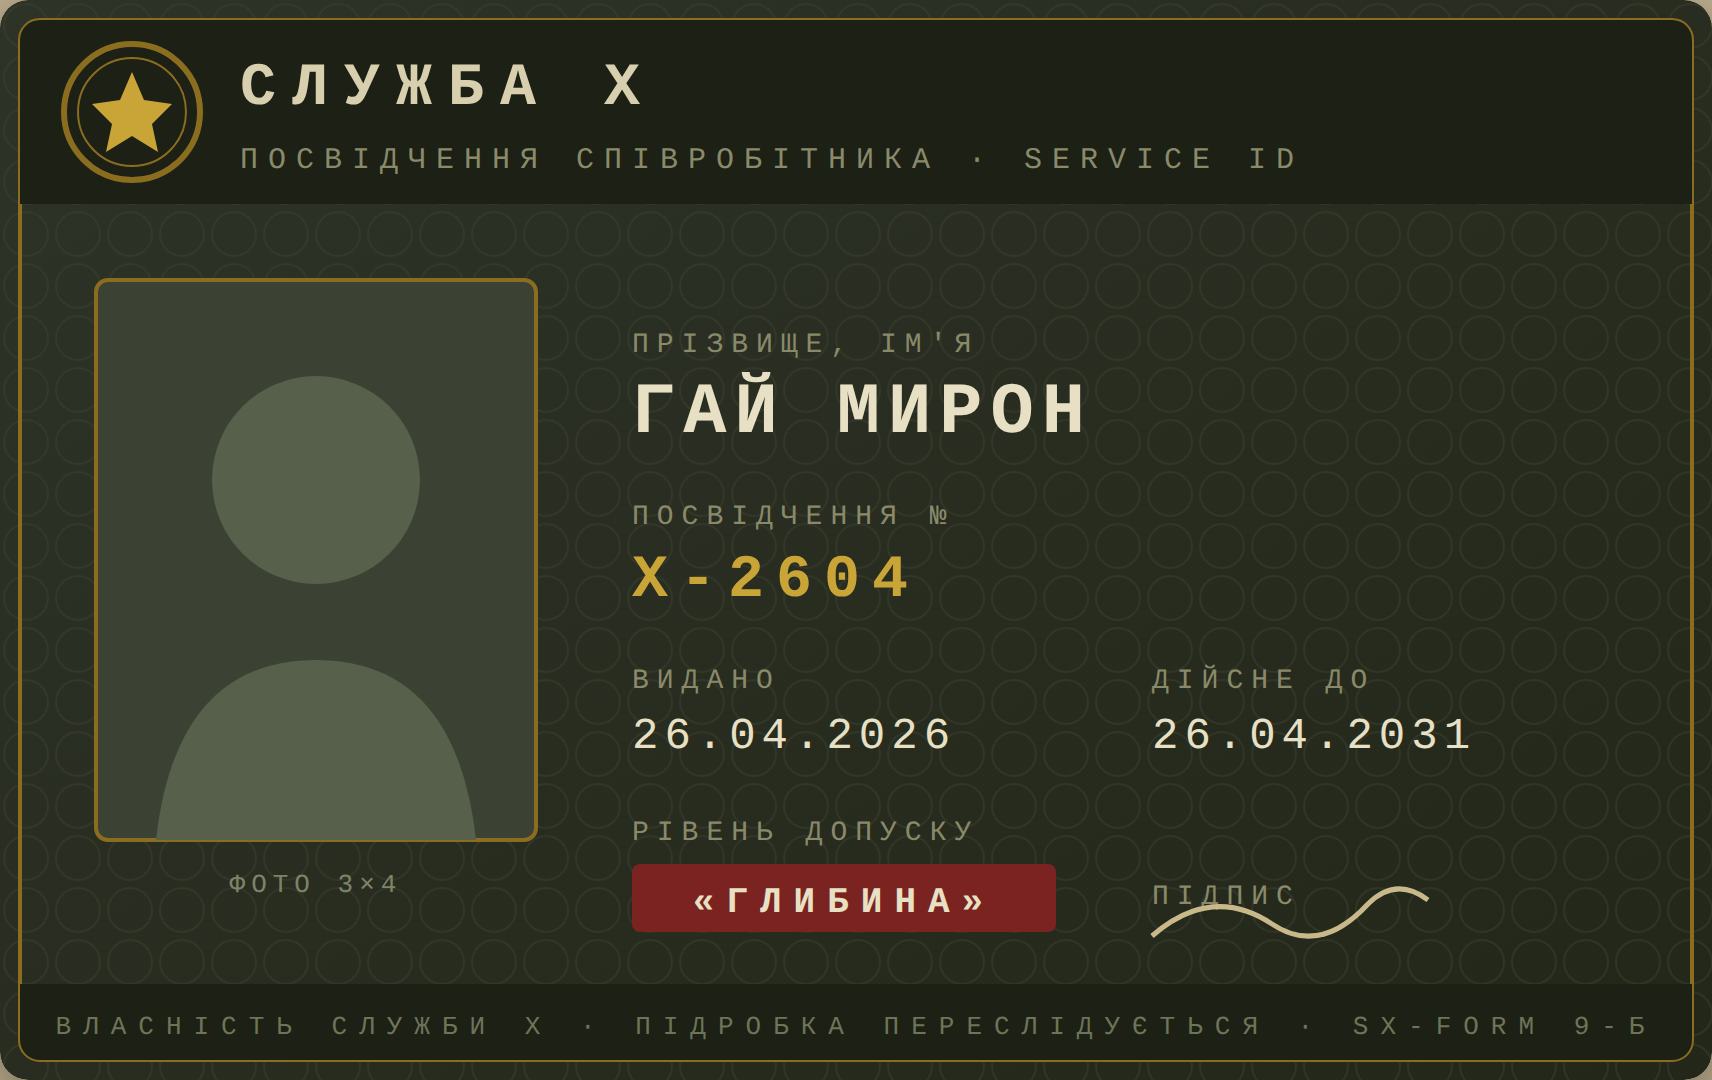
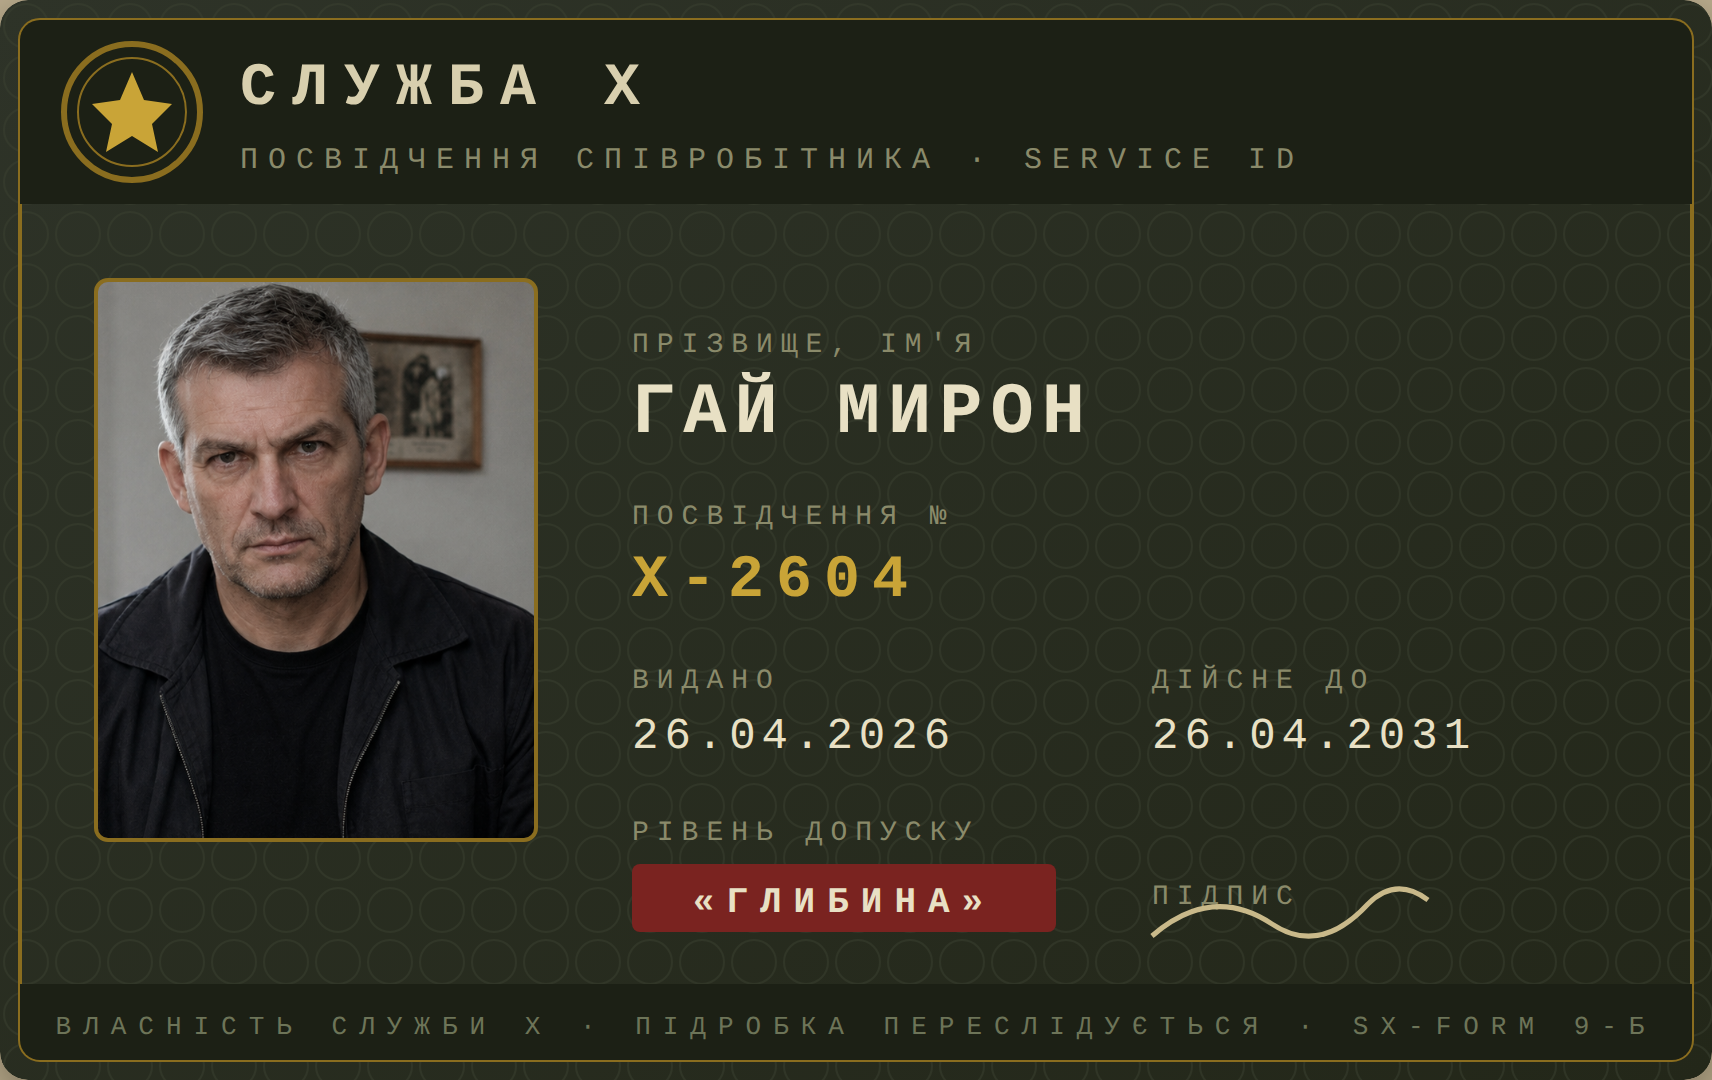
Фото з газетою: підпис Caveat по центру «Іноді нове життя це не народження», без бирки; обличчя з photoId.png вставлене в посвідчення
Claude-Session: https://claude.ai/code/session_01Egbb1QZA23nT1FLr9Hjpcj

Changed region(s): [[0.031, 0.2444, 0.3096, 0.825]]

diff --git a/props/id-card-source.html b/props/id-card-source.html
@@ -35,13 +35,15 @@
     <circle r="27" fill="none" stroke="#8a6d1f" stroke-width="1"/>
     <path d="M0 -20 L6 -6 L20 -4 L10 6 L13 20 L0 12 L-13 20 L-10 6 L-20 -4 L-6 -6 z" fill="#c9a437"/>
   </g>
-  <!-- фото -->
-  <rect x="48" y="140" width="220" height="280" rx="6" fill="#3c4233" stroke="#8a6d1f" stroke-width="2"/>
-  <g fill="#57604a">
-    <circle cx="158" cy="240" r="52"/>
-    <path d="M78 420 q10 -90 80 -90 q70 0 80 90 z"/>
-  </g>
-  <text x="158" y="446" text-anchor="middle" font-family="'Courier New',monospace" font-size="13" letter-spacing="3" fill="#7c8468">ФОТО 3×4</text>
+  <!-- фото: обличчя з photoId.png, кроп 3×4 (центр по лицю), легка службова десатурація -->
+  <defs>
+    <clipPath id="phClip"><rect x="48" y="140" width="220" height="280" rx="6"/></clipPath>
+    <filter id="idPhoto"><feColorMatrix type="saturate" values="0.72"/></filter>
+  </defs>
+  <rect x="48" y="140" width="220" height="280" rx="6" fill="#3c4233"/>
+  <image href="photoId.png" x="-92" y="135" width="500" height="500"
+         clip-path="url(#phClip)" filter="url(#idPhoto)" preserveAspectRatio="xMidYMid meet"/>
+  <rect x="48" y="140" width="220" height="280" rx="6" fill="none" stroke="#8a6d1f" stroke-width="2"/>
   <!-- поля -->
   <g font-family="'Courier New',monospace">
     <text x="316" y="176" font-size="14" letter-spacing="4" fill="#8a8a6a">ПРІЗВИЩЕ, ІМ'Я</text>
